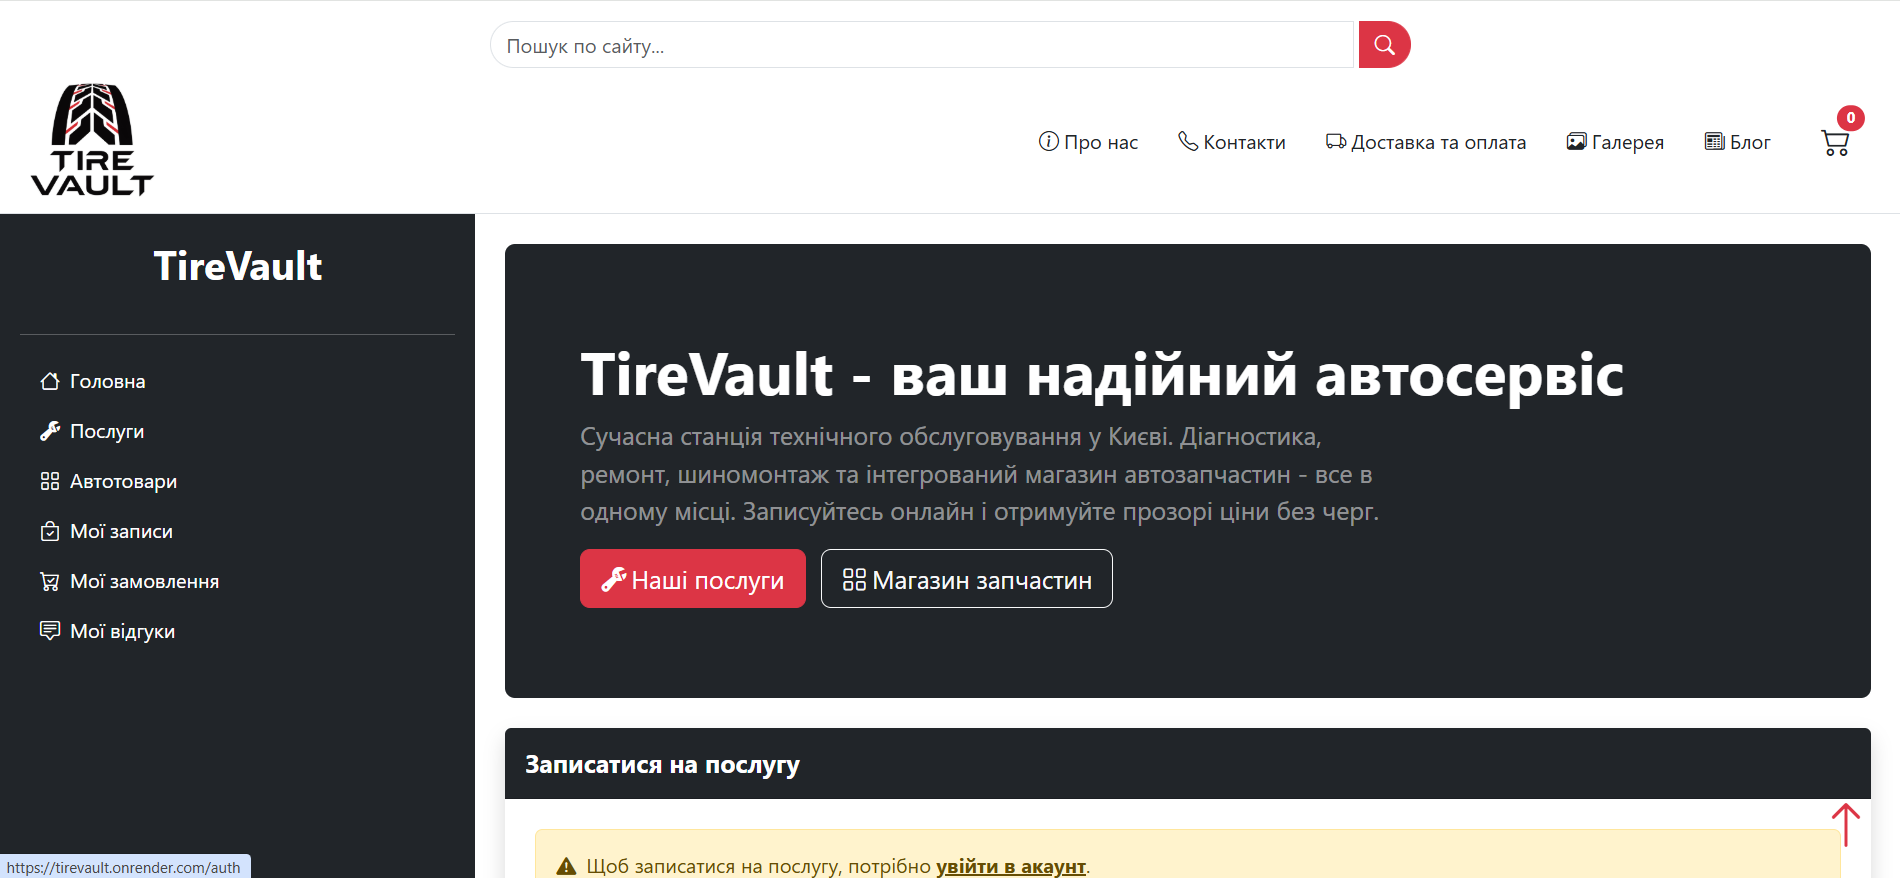
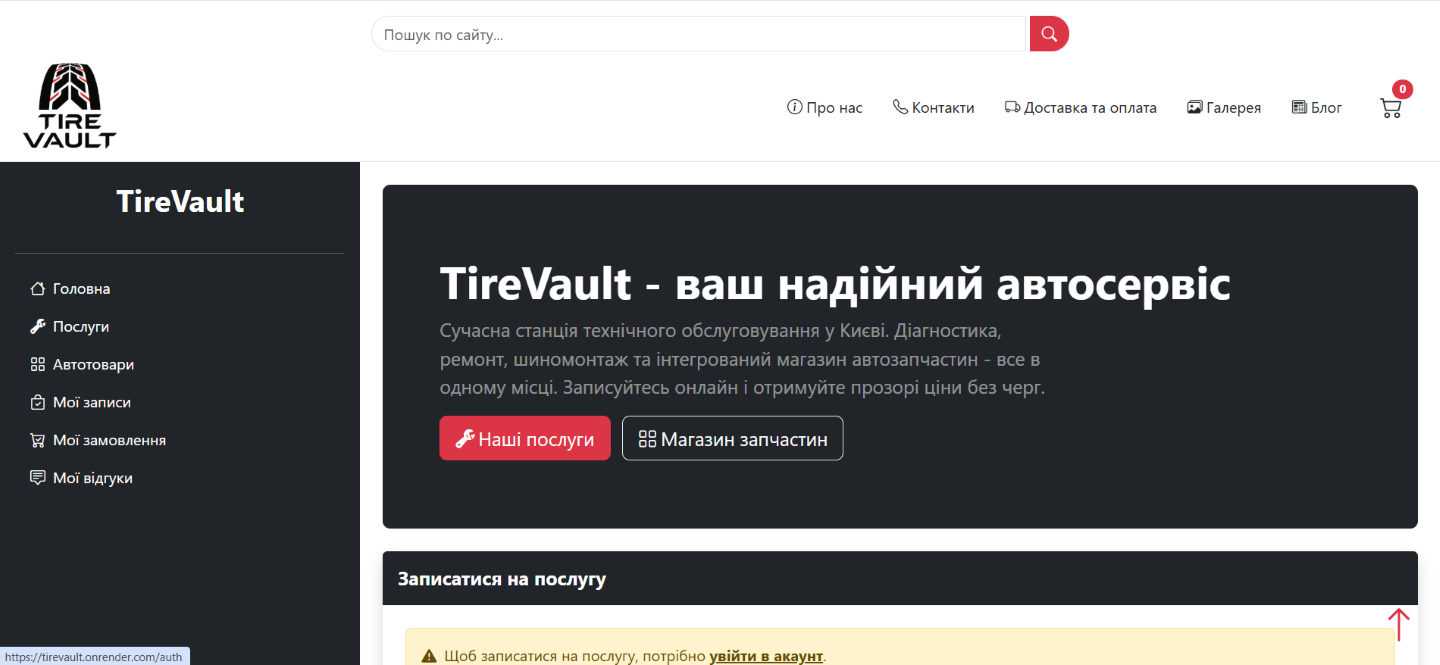
update: added some certificates, changed resume files and provided minor fixes.

diff --git a/src/pages/Home.tsx b/src/pages/Home.tsx
@@ -38,21 +38,37 @@ const Home = () => {
         const ctx = canvas.getContext('2d')!
         let animId: number
 
-        const resize = () => {
-            canvas.width = container.offsetWidth
-            canvas.height = container.offsetHeight
-        }
-
-        resize()
-        window.addEventListener('resize', resize)
-
+        // balls тепер з нульовими координатами — розкидаємо окремо
         const balls: Ball[] = Array.from({length: 2000}, () => ({
-            x: Math.random() * canvas.width,
-            y: Math.random() * canvas.height,
+            x: 0,
+            y: 0,
             r: Math.random() * 2.5 + 1,
             dx: (Math.random() - 0.5) * 1.2,
             dy: (Math.random() - 0.5) * 1.2,
         }))
+
+        const scatter = () => {
+            balls.forEach(b => {
+                b.x = Math.random() * canvas.width
+                b.y = Math.random() * canvas.height
+            })
+        }
+
+        const resize = () => {
+            const hadNoHeight = canvas.height === 0
+            canvas.width = container.offsetWidth
+            canvas.height = container.offsetHeight
+            if (hadNoHeight && canvas.height > 0) scatter() // ← спрацює коли фото завантажиться
+        }
+
+        resize()
+        if (canvas.height > 0) scatter() // ← одразу на десктопі
+
+        window.addEventListener('resize', resize)
+
+        // ResizeObserver стежить за контейнером, а не за вікном
+        const ro = new ResizeObserver(resize)
+        ro.observe(container)
 
         const animate = () => {
             ctx.clearRect(0, 0, canvas.width, canvas.height)
@@ -74,6 +90,7 @@ const Home = () => {
         return () => {
             cancelAnimationFrame(animId)
             window.removeEventListener('resize', resize)
+            ro.disconnect() // ← не забути прибрати observer
         }
     }, [])
 
@@ -191,9 +208,9 @@ const Home = () => {
                                                 <path
                                                     d="M798-120q-125 0-247-54.5T329-329Q229-429 174.5-551T120-798q0-18 12-30t30-12h162q14 0 25 9.5t13 22.5l26 140q2 16-1 27t-11 19l-97 98q20 37 47.5 71.5T387-386q31 31 65 57.5t72 48.5l94-94q9-9 23.5-13.5T670-390l138 28q14 4 23 14.5t9 23.5v162q0 18-12 30t-30 12ZM241-600l66-66-17-94h-89q5 41 14 81t26 79Zm358 358q39 17 79.5 27t81.5 13v-88l-94-19-67 67ZM241-600Zm358 358Z"/>
                                             </svg>
-                                            <Spoiler> Номер приховано </Spoiler>
+                                            <Spoiler> 067 518 22 22 </Spoiler>
                                         </div>
-                                        <CopyBtn text="Номер приховано"/>
+                                        <CopyBtn text="067 518 22 22"/>
                                     </div>
                                     <div className="contact-row">
                                         <div className="contact-item">
@@ -215,6 +232,11 @@ const Home = () => {
                             <div className="right-button">
                                 <a href="https://github.com/vadim-x64" target="_blank" rel="noreferrer">
                                     GitHub
+                                </a>
+                            </div>
+                            <div className="right-button">
+                                <a href="https://www.linkedin.com/in/%D0%B2%D0%B0%D0%B4%D0%B8%D0%BC-%D0%B2%D0%BE%D0%B9%D1%86%D0%B5%D1%85%D0%BE%D0%B2%D1%81%D1%8C%D0%BA%D0%B8%D0%B9-623868300/?lipi=urn%3Ali%3Apage%3Ad_flagship3_profile_view_base_contact_details%3BDggACzrERfy6nZQkdqhi7w%3D%3D" target="_blank" rel="noreferrer">
+                                    LinkedIn
                                 </a>
                             </div>
                         </div>

diff --git a/src/css/home.css b/src/css/home.css
@@ -320,14 +320,18 @@
 
 .social-buttons {
     position: absolute;
+    top: 50%;
+    left: 50%;
+    transform: translate(-50%, -50%); /* Ідеальне центрування по вертикалі та горизонталі */
     display: flex;
-    width: 100%;
-    height: 100px;
+    flex-direction: column; /* У стовпчик */
+    gap: 30px;              /* Відступ між кнопками */
+    width: auto;
+    height: auto;
 }
 
 .right-button {
     width: 100%;
-    height: 100%;
     display: flex;
     justify-content: center;
     align-items: center;
@@ -335,7 +339,10 @@
 
 .right-button a {
     background-color: #ffffff;
-    padding: 20px 100px;
+    width: 350px;           /* Фіксована ширина для однакового розміру */
+    padding: 20px 0;        /* Прибираємо бокові відступи, залишаємо лише верх/низ */
+    text-align: center;     /* Текст рівно по центру кнопки */
+    display: inline-block;
     text-decoration: none;
     font-size: 40px;
     font-weight: bold;
@@ -343,6 +350,7 @@
     transition: all 0.3s ease;
     border-radius: 200px;
     box-shadow: 0 5px 10px 5px rgba(0, 0, 0, 1);
+    box-sizing: border-box; /* Щоб паддінги не ламали ширину */
 }
 
 .right-button a:hover {
@@ -529,6 +537,8 @@ body.dark-theme .nav-button:hover {
 
     .right-button a {
         font-size: 24px;
+        width: 250px; /* Менша ширина для телефонів */
+        padding: 15px 0;
     }
 
     .right-button a:hover {

diff --git a/src/pages/Portfolio.tsx b/src/pages/Portfolio.tsx
@@ -20,7 +20,7 @@ const PROJECTS: Project[] = [
         title: 'SmartToDo',
         description:
             'Вебсистема для управління завданнями, яка допомагає організувати особисті та робочі справи в одному місці. Дозволяє створювати завдання, встановлювати терміни виконання, розподіляти їх по категоріях та отримувати нагадування про події. Застосунок написаний на JavaScript і має зручний інтерфейс для швидкого планування щоденних справ.',
-        link: 'https://smarttodo-iver.onrender.com',
+        link: '',
     },
     {
         img: '/images/chatbot.png',
@@ -55,6 +55,9 @@ const CERTIFICATES: string[] = [
     '/images/c5.jpg',
     '/images/c3.jpg',
     '/images/c4.jpg',
+    '/images/c1.jpg',
+    '/images/c6.jpg',
+    '/images/c7.jpg',
 ]
 
 const Portfolio = () => {

diff --git a/src/pages/Profile.tsx b/src/pages/Profile.tsx
@@ -132,12 +132,12 @@ const Profile = () => {
                             <div className="exp-item">
                                 <p className="title">ПрАТ «ККПК»</p>
                                 <p className="period">2024</p>
-                                <p className="txt">Проходив технологічну та переддипломну практику. Ознайомлення з IT-інфраструктурою підприємства, супровід програмного забезпечення.</p>
+                                <p className="txt">Проходив технологічну та переддипломну практику. Ознайомлювався з IT-інфраструктурою підприємства, написав 2 рішення.</p>
                             </div>
                             <div className="exp-item">
                                 <p className="title">NIX Solutions</p>
                                 <p className="period">2026</p>
-                                <p className="txt">Виробнича практика. Бекенд-розробник у Scrum-команді: розробка серверної частини, фронтенд-верстка окремих сторінок. Робота з GitLab, Trello, Java, TypeScript.</p>
+                                <p className="txt">Проходив виробничу практику. Був бекенд-розробником у команді, займався розробкою серверної частини, трохи зачепив фронтенд-верстку деяких сторінок. Попрацював з Scrum, GitLab, Trello, Java, TypeScript.</p>
                             </div>
                         </div>
                     </div>